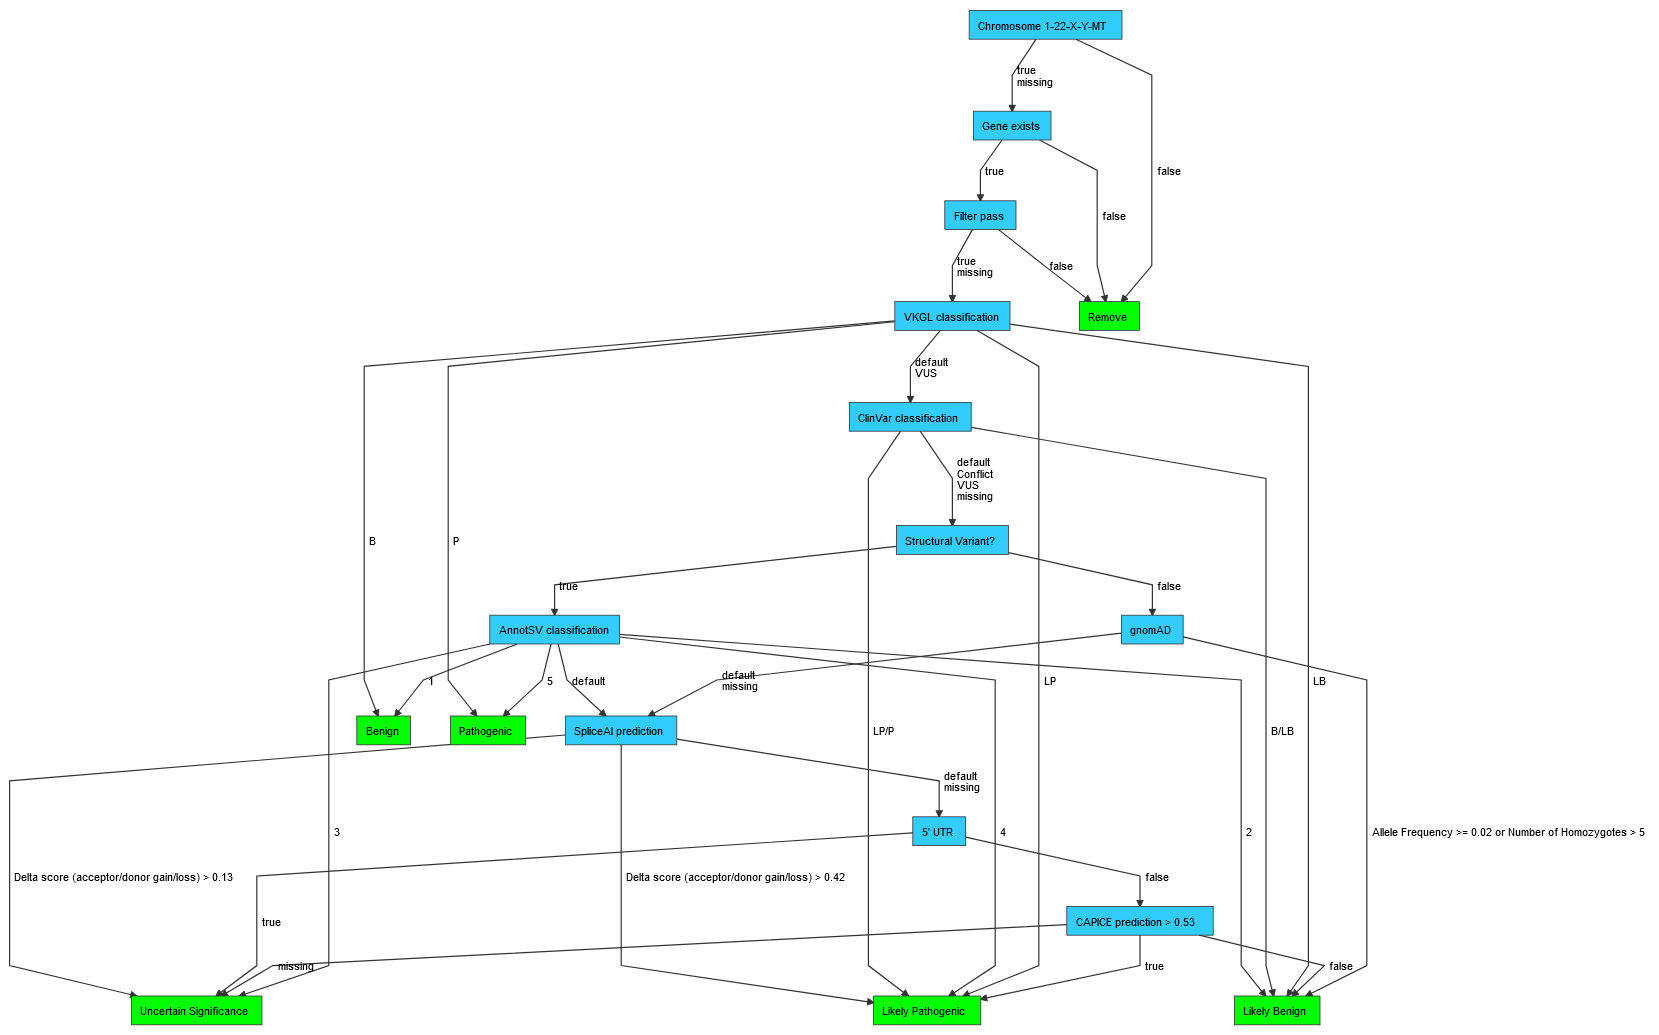
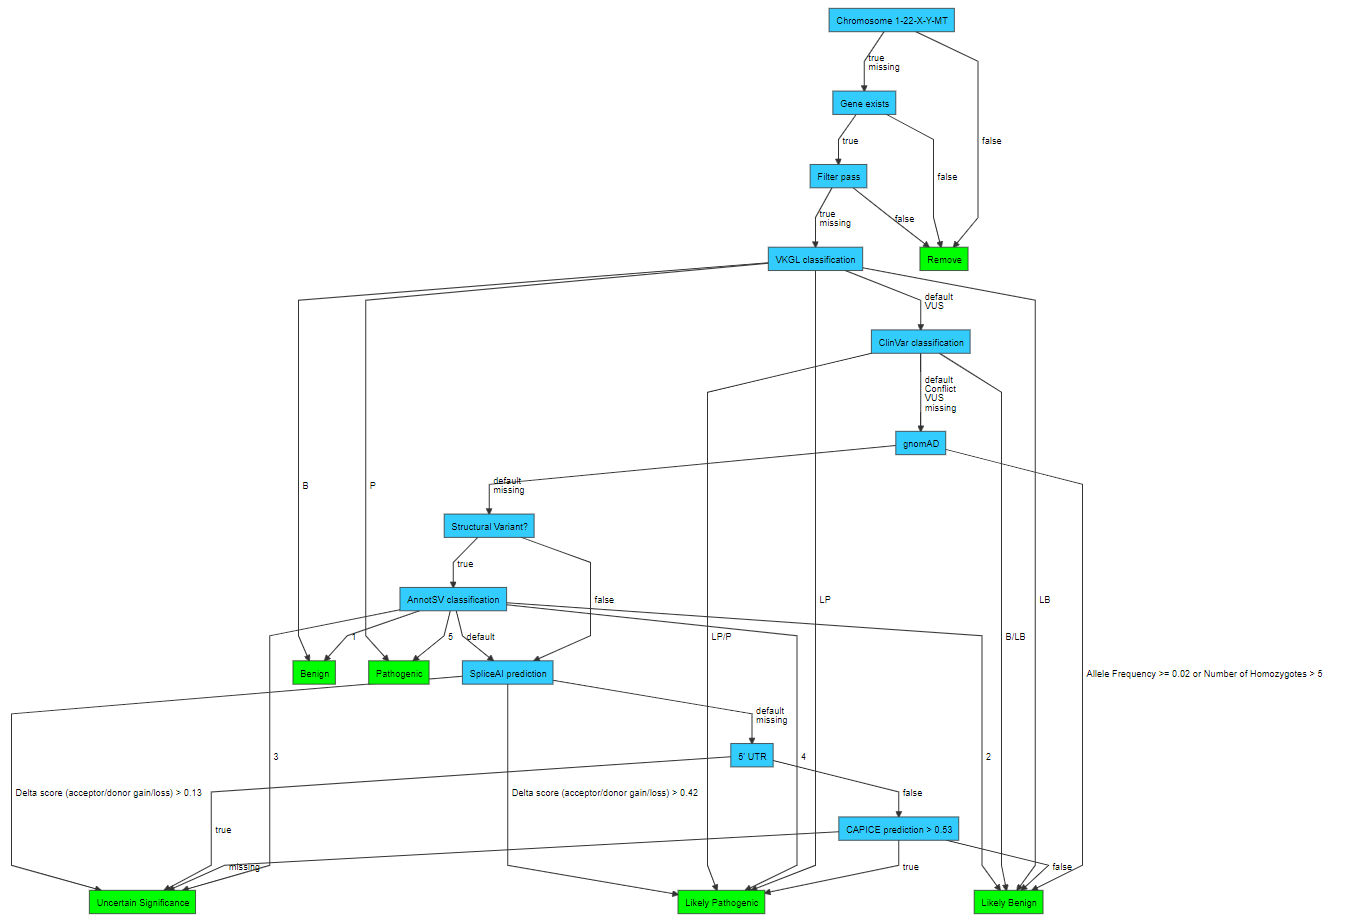
Change order of GnomadAF and AnnotSv in default tree (#393)
* Change order of GnomadAF and AnnotSv in default tree

* Fix ClinVar VUS and conflict nextNode

* Update PR template

* Update tree visualisation in docs

diff --git a/.github/pull_request_template.md b/.github/pull_request_template.md
@@ -1,2 +1,3 @@
 End-to-end tests are not executed by Travis CI, please execute manually:
 - [ ] `APPTAINER_BIND=$PWD bash test/test.sh` passes
+- [ ] Updated documentation 
